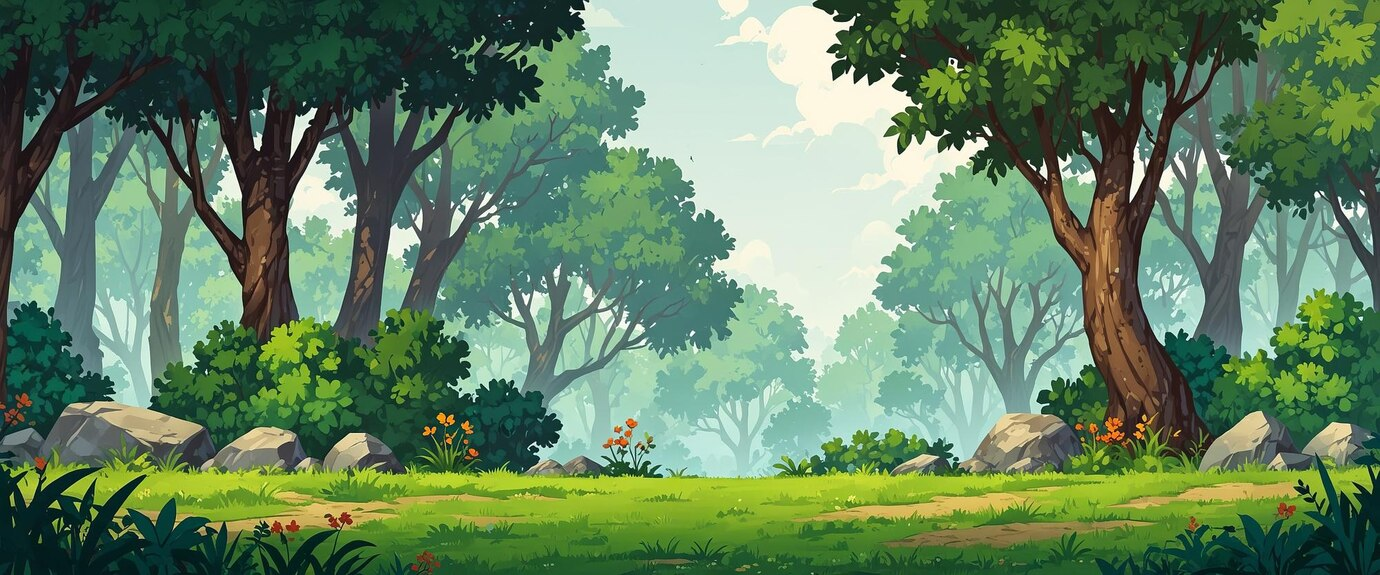
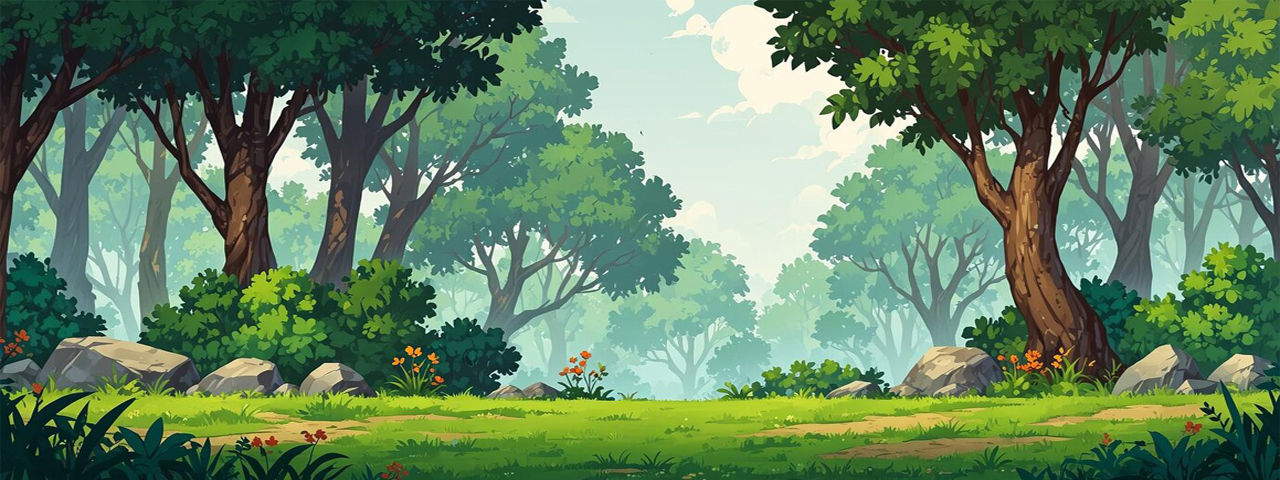
Fix: Morte
- logo atualizado;
- morte pulando corrigida;
- fundo ajustado;
- todo: remover moonwalker;

diff --git a/main.py b/main.py
@@ -68,12 +68,16 @@ class Character(pygame.sprite.Sprite):
         self.y = SCREEN_HEIGHT - 100
         self.speed = 5
         self.health = 6  # Inicialmente 6 vidas
+        self.hits = 6  # A quantidade de hits começa com 6
         self.state = "parado"  # Estado inicial
         self.image_list = load_images(self.state)
         self.current_frame = 0
         self.image = self.image_list[self.current_frame]
         self.rect = self.image.get_rect(center=(self.x, self.y))
-        
+
+        # Inicializando a variável 'flipped' como True
+        self.flipped = True  # A imagem começa invertida (virada para a esquerda)
+
         # Controle de pulo
         self.is_jumping = False
         self.jump_height = 10
@@ -86,30 +90,41 @@ class Character(pygame.sprite.Sprite):
     def update(self, keys):
         # Se o personagem estiver morto, ele não pode mais fazer nada
         if self.state == "morto":
+            self.y = SCREEN_HEIGHT - 100  # Colocar o personagem no chão
             return  # O personagem não faz nada mais, ele fica parado no estado morto
 
         if self.state != "morrendo":  # Só processa o movimento se não estiver morrendo
             # Movimento horizontal
-            if keys[pygame.K_a]:  # Tecla 'A' ou 's'
+            if keys[pygame.K_a]:  # Tecla 'A' (esquerda)
                 self.x -= self.speed
                 self.state = "andando"
-                self.flip_image(False)  # Virar para a esquerda
-            elif keys[pygame.K_d]:  # Tecla 'D' ou 'd'
+                self.flip_image('esquerda')  # Virar para a esquerda
+
+            elif keys[pygame.K_d]:  # Tecla 'D' (direita)
                 self.x += self.speed
                 self.state = "andando"
-                self.flip_image(True)  # Virar para a direita
+                self.flip_image('direita')  # Virar para a direita
+
+            # Correndo (se pressionado Shift)
             elif keys[pygame.K_LSHIFT] and (keys[pygame.K_a] or keys[pygame.K_d]):  # Correndo
                 self.speed = 8
                 self.state = "correndo"
                 if keys[pygame.K_d]: 
-                    self.flip_image(True)  # Virar para a direita ao correr
+                    self.flip_image('direita')  # Virar para a direita ao correr
                 elif keys[pygame.K_a]:
-                    self.flip_image(False)  # Virar para a esquerda ao correr
+                    self.flip_image('esquerda')  # Virar para a esquerda ao correr
             else:
                 self.state = "parado"
                 self.speed = 5  # Volta a velocidade normal
-                self.flip_image(False)  # Deixar voltado para a esquerda
-                
+                # Não precisa mais inverter a imagem ao parar, o flip vai ser controlado pelos movimentos
+
+        # Atualização da animação do personagem
+        self.image_list = load_images(self.state)
+        if self.image_list:
+            self.current_frame = (self.current_frame + 1) % len(self.image_list)
+            self.image = self.image_list[self.current_frame]
+            self.rect = self.image.get_rect(center=(self.x, self.y))
+
             # Pulo
             if keys[pygame.K_w] and not self.is_jumping:  # Tecla 'W'
                 self.is_jumping = True
@@ -144,7 +159,7 @@ class Character(pygame.sprite.Sprite):
                 self.rect = self.image.get_rect(center=(self.x, self.y))
 
         # Verificar se os hits chegaram a 0
-        if hits == 0 and self.state != "morrendo":
+        if self.hits == 0 and self.state != "morrendo":
             print("Hits chegaram a 0! Iniciando animação de morte.")
             self.state = "morrendo"
             self.image_list = load_images(self.state)
@@ -168,16 +183,25 @@ class Character(pygame.sprite.Sprite):
                 self.rect = self.image.get_rect(center=(self.x, self.y))
 
     def flip_image(self, flip):
-        """Função para inverter a imagem do personagem dependendo da direção"""
-        if flip:
-            self.image = pygame.transform.flip(self.image, True, False)  # Inverte horizontalmente
-        else:
-            self.image = pygame.transform.flip(self.image, False, False)  # Deixa a imagem normal (não invertida)
+        print(f"Flip: {flip}, Flipped: {self.flipped}")
+
+        if flip == 'direita':  # Se a direção for para a direita
+            if self.flipped:  # Se a imagem estiver virada para a esquerda
+                self.image = pygame.transform.flip(self.image, True, False)  # Inverte apenas a imagem atual
+                self.flipped = False  # Marca como não invertida (virada para a direita)
+                print("Imagem virada para a direita")
+            
+        elif flip == 'esquerda':  # Se a direção for para a esquerda
+            if not self.flipped:  # Se a imagem não estiver virada para a esquerda
+                self.image = pygame.transform.flip(self.image, True, False)  # Inverte apenas a imagem atual
+                self.flipped = True  # Marca como invertida (virada para a esquerda)
+                print("Imagem virada para a esquerda")
+
 
 # Função para mostrar o contador de hits
-def show_hits(hits):
+def show_hits(character):
     font = pygame.font.Font(None, 36)
-    text = font.render(f"Hits: {hits}", True, (255, 0, 0))
+    text = font.render(f"Hits: {character.hits}", True, (255, 0, 0))
     screen.blit(text, (10, 10))
 
 # Função para mostrar a tela de morte
@@ -186,21 +210,20 @@ def game_over():
     font_small = pygame.font.Font(None, 36)
     
     # Texto "GAME OVER"
-    text_large = font_large.render("+ aFroLowers Morreu... +", True, (255, 0, 0))
+    text_large = font_large.render("+ Aqui acaba a sua odisseia, ou não? +", True, (255, 0, 0))
     # Centralizando o texto "GAME OVER"
-    text_large_rect = text_large.get_rect(center=(SCREEN_WIDTH // 2, SCREEN_HEIGHT // 2 - 50))
+    text_large_rect = text_large.get_rect(center=(SCREEN_WIDTH // 2, SCREEN_HEIGHT // 2 ))
     screen.blit(text_large, text_large_rect)
 
     # Texto "Pressione R para reiniciar"
     text_small = font_small.render("Pressione R para reiniciar", True, (128, 0, 0))
     # Centralizando o texto "Pressione R para reiniciar"
-    text_small_rect = text_small.get_rect(center=(SCREEN_WIDTH // 2, SCREEN_HEIGHT // 2 + 20))
+    text_small_rect = text_small.get_rect(center=(SCREEN_WIDTH // 2, SCREEN_HEIGHT // 2 + 40 ))
     screen.blit(text_small, text_small_rect)
 
 # Adicionar lógica para reiniciar o jogo
 def reset_game():
-    global hits, character
-    hits = 6
+    global character
     character = Character()
     all_sprites.empty()
     all_sprites.add(character)
@@ -211,7 +234,7 @@ running = True
 
 # Tela inicial (Splash Screen)
 # Exibir o logo por 3 segundos
-screen.fill((0, 0, 0))  # Limpa a tela
+screen.fill((255, 255, 255))  # Limpa a tela
 screen.blit(logo, (SCREEN_WIDTH // 2 - logo.get_width() // 2, SCREEN_HEIGHT // 2 - logo.get_height() // 2))  # Centraliza o logo
 pygame.display.flip()
 pygame.time.delay(3000)  # Exibe o logo por 3 segundos
@@ -222,8 +245,8 @@ fade_in_out(30, fade_out=True)
 # Exibir o título por 4 segundos
 screen.fill((0, 0, 0))  # Limpa a tela
 font = pygame.font.Font(None, 72)
-title_text = font.render("aFroLower - spanks na geral", True, (255, 255, 255))
-screen.blit(title_text, (SCREEN_WIDTH // 2 - title_text.get_width() // 2, SCREEN_HEIGHT // 2))  # Centraliza o título
+title_text = font.render("Spanks na geral, Vol I -  floresta", True, (255, 255, 255))
+screen.blit(title_text, (SCREEN_WIDTH // 2 - title_text.get_width() // 2, SCREEN_HEIGHT // 2.5))  # Centraliza o título
 pygame.display.flip()
 pygame.time.delay(4000)  # Exibe o título por 4 segundos
 
@@ -234,23 +257,20 @@ fade_in_out(30, fade_out=True)
 character = Character()
 all_sprites = pygame.sprite.Group(character)
 
-# Contador de hits
-hits = 6
-
 # Loop principal
 while running:
     screen.fill((0, 0, 0))  # Limpar tela
 
     # Exibir o fundo
-    screen.blit(background, (0, -100))
+    screen.blit(background, (0, 0))
     
     # Gerenciar eventos
     for event in pygame.event.get():
         if event.type == pygame.QUIT:
             running = False
         elif event.type == pygame.KEYDOWN:
-            if event.key == pygame.K_h and hits > 0:
-                hits -= 1
+            if event.key == pygame.K_h and character.hits > 0:
+                character.hits -= 1
             # Verifica se 'R' foi pressionado para reiniciar o jogo
             if event.key == pygame.K_r and character.state == "morto":
                 reset_game()
@@ -262,7 +282,7 @@ while running:
     all_sprites.draw(screen)
     
     # Mostrar contador de hits
-    show_hits(hits)
+    show_hits(character)
     
     # Verificar se o personagem está morto
     if character.state == "morto":
